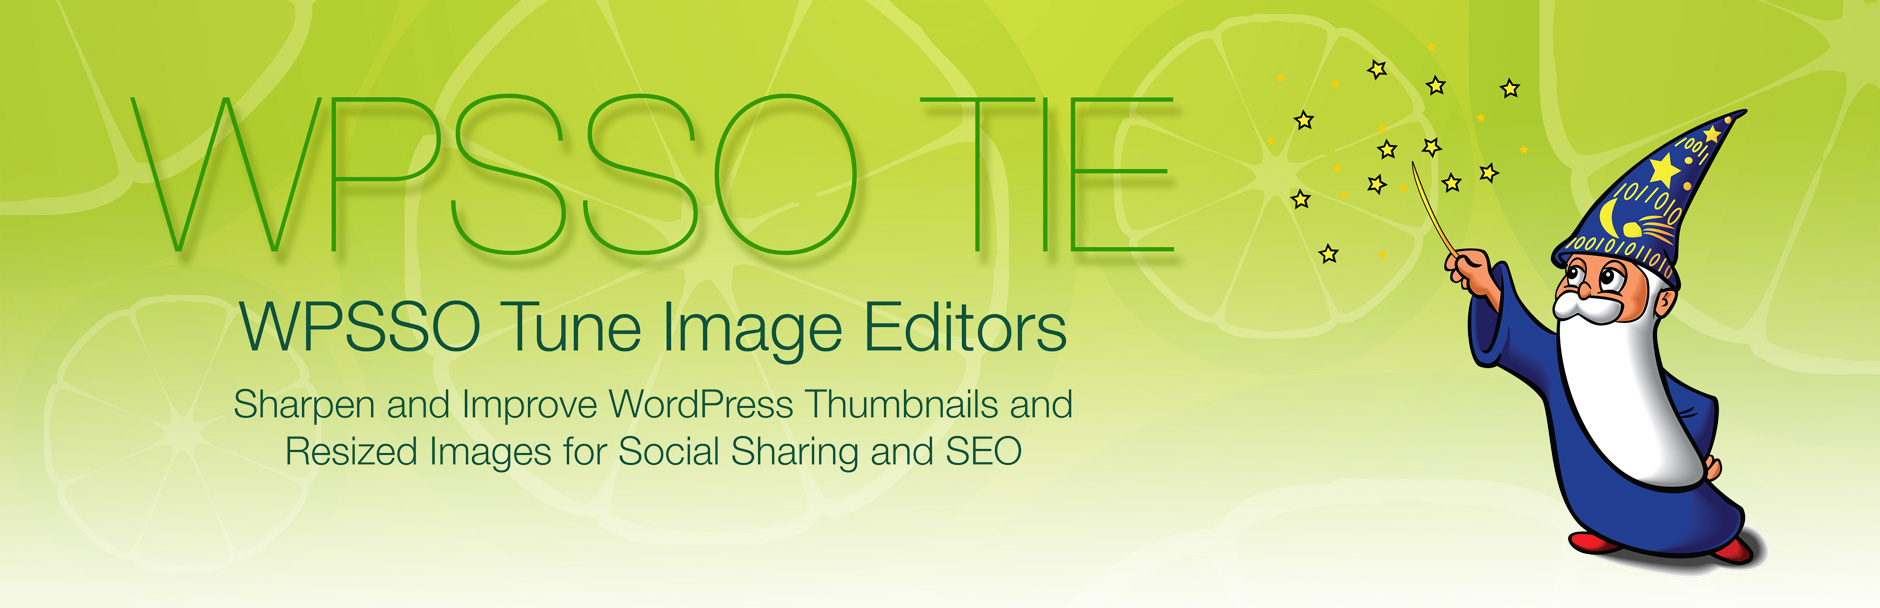
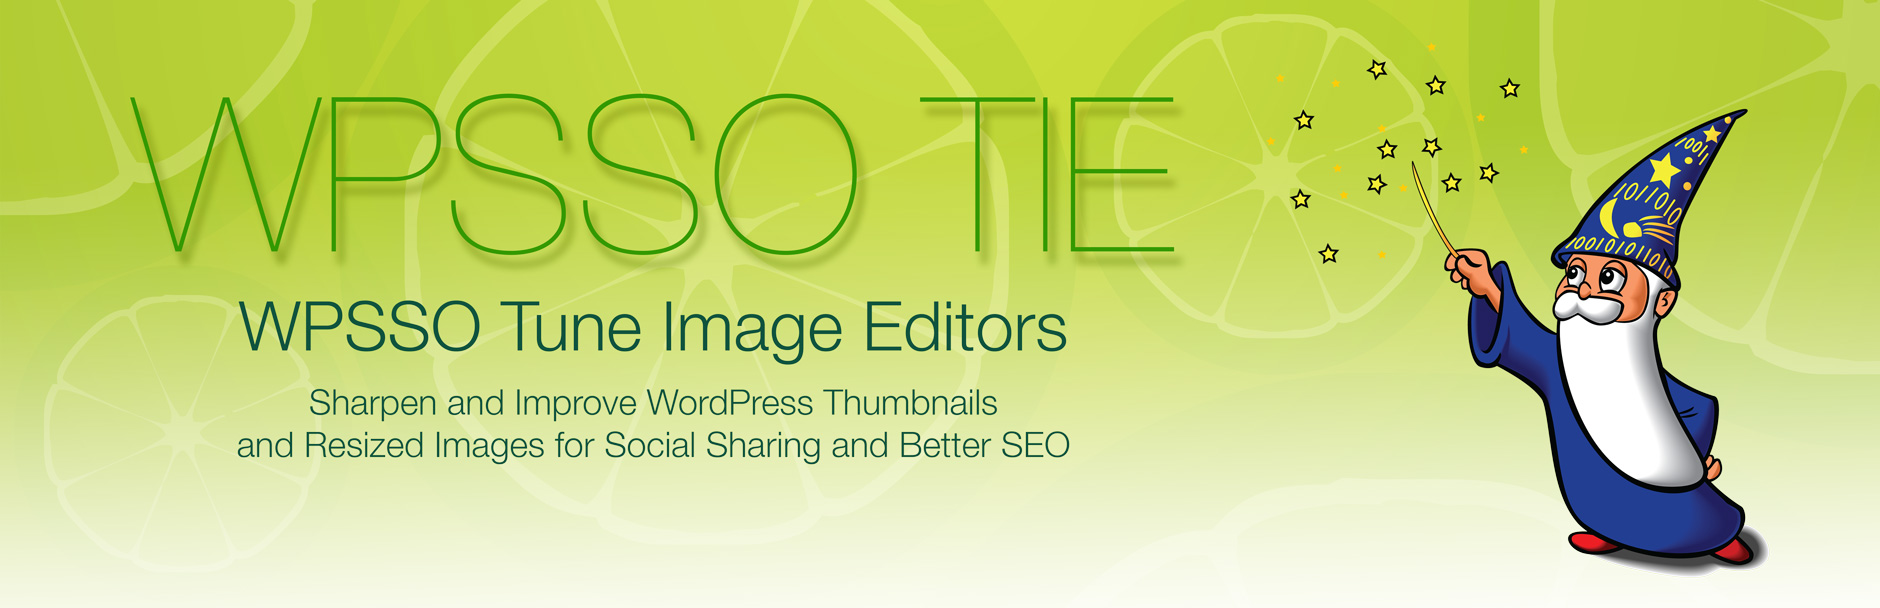
non-essential support files (documentation and assets)

Changed region(s): [[0.1234, 0.625, 0.5862, 0.7812]]

diff --git a/index.html b/index.html
@@ -29,7 +29,7 @@
 
 <table>
 <tr><th align="right" valign="top" nowrap>Plugin Name</th><td>WPSSO Tune Image Editors</td></tr>
-<tr><th align="right" valign="top" nowrap>Summary</th><td>Sharpen and improve WordPress thumbnails and resized images for social sharing and better SEO.</td></tr>
+<tr><th align="right" valign="top" nowrap>Summary</th><td>Sharpen and Improve WordPress Thumbnails and Resized Images for Social Sharing and Better SEO.</td></tr>
 <tr><th align="right" valign="top" nowrap>Stable Version</th><td>2.0.4</td></tr>
 <tr><th align="right" valign="top" nowrap>Requires PHP</th><td>5.6 or newer</td></tr>
 <tr><th align="right" valign="top" nowrap>Requires WordPress</th><td>4.2 or newer</td></tr>
